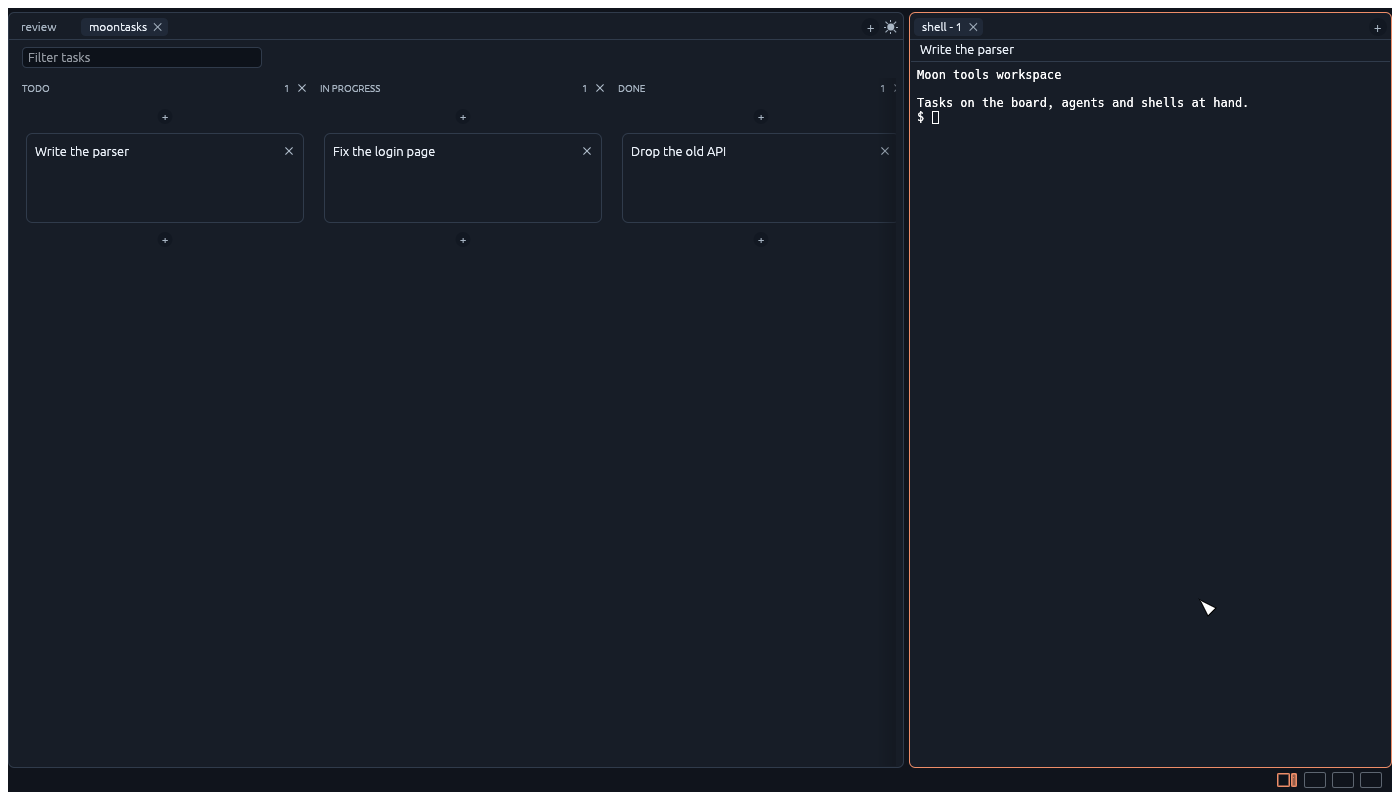
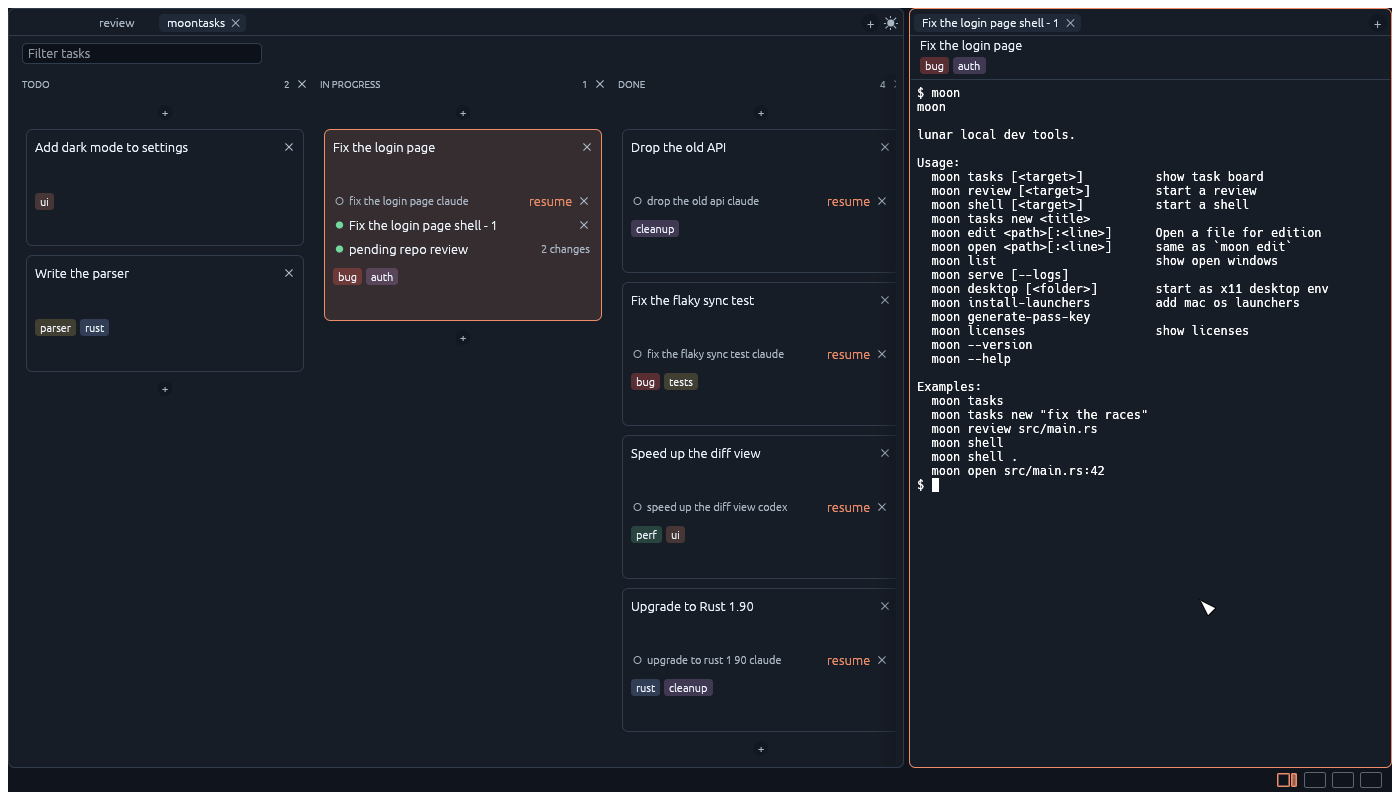
tweak site

diff --git a/docs/site.css b/docs/site.css
@@ -26,6 +26,11 @@ figcaption, footer { font-size: 13px; color: #555; }
 figure { margin: 20px 0 0; }
 #workflow figure { margin-top: 0; }
 figure img { display: block; width: 100%; height: auto; border: 1px solid #999; }
+/* On a desktop the first screenshot runs 10% past the text column on each side; narrower
+   windows have no room to spare, so it stays in the column there. */
+@media (min-width: 1000px) {
+  .intro figure img { width: 120%; max-width: none; margin-left: -10%; }
+}
 figcaption { margin-top: 6px; }
 ul, ol { padding-left: 24px; margin: 12px 0 18px; }
 li { margin-bottom: 8px; }

diff --git a/src/native/ui_tests/board.rs b/src/native/ui_tests/board.rs
@@ -22,23 +22,89 @@ fn the_moontasks_board_draws_what_is_in_the_repo() {
     let fixture = seeded_fixture("board");
     // Written by hand rather than through the service: the ids a real one generates carry a
     // uuid, and the point here is a picture that is the same on every run.
-    for (task_id, title, status) in [
-        ("write-the-parser-1111", "Write the parser", "todo"),
+    // A board as it looks after a few days of use rather than a first minute: tags on most
+    // cards, a DONE column of finished work whose agent runs have all ended, and one card in
+    // progress with an agent run, a shell and a repo waiting on review.
+    for (task_id, title, status, tags, agent_run) in [
+        (
+            "write-the-parser-1111",
+            "Write the parser",
+            "todo",
+            &["parser", "rust"][..],
+            None,
+        ),
+        (
+            "add-dark-mode-to-settings-5555",
+            "Add dark mode to settings",
+            "todo",
+            &["ui"][..],
+            None,
+        ),
         (
             "fix-the-login-page-2222",
             "Fix the login page",
             "in_progress",
+            &["bug", "auth"][..],
+            Some("fix the login page claude"),
         ),
-        ("drop-the-old-api-3333", "Drop the old API", "done"),
+        (
+            "drop-the-old-api-3333",
+            "Drop the old API",
+            "done",
+            &["cleanup"][..],
+            Some("drop the old api claude"),
+        ),
+        (
+            "speed-up-the-diff-view-6666",
+            "Speed up the diff view",
+            "done",
+            &["perf", "ui"][..],
+            Some("speed up the diff view codex"),
+        ),
+        (
+            "fix-flaky-sync-test-7777",
+            "Fix the flaky sync test",
+            "done",
+            &["bug", "tests"][..],
+            Some("fix the flaky sync test claude"),
+        ),
+        (
+            "upgrade-to-rust-1-90-8888",
+            "Upgrade to Rust 1.90",
+            "done",
+            &["rust", "cleanup"][..],
+            Some("upgrade to rust 1 90 claude"),
+        ),
     ] {
+        let tags = tags
+            .iter()
+            .map(|tag| format!("\"{tag}\""))
+            .collect::<Vec<_>>()
+            .join(", ");
+        let resources = match agent_run {
+            Some(name) => format!(
+                "[\n    {{\n      \"id\": \"run-{task_id}\",\n      \"kind\": \"agent\",\n      \
+                 \"agent\": \"{agent}\",\n      \"name\": \"{name}\",\n      \
+                 \"started_at_unix\": 1700000100\n    }}\n  ]",
+                agent = if name.ends_with("codex") { "codex" } else { "claude" },
+            ),
+            None => "[]".to_string(),
+        };
         fixture.write(
             &format!(".moontasks/{task_id}/metadata.json"),
             &format!(
                 "{{\n  \"title\": \"{title}\",\n  \"status\": \"{status}\",\n  \
-                 \"created_at_unix\": 1700000000,\n  \"resources\": []\n}}\n"
+                 \"created_at_unix\": 1700000000,\n  \"tags\": [{tags}],\n  \
+                 \"resources\": {resources}\n}}\n"
             ),
         );
     }
+    // The in-progress task has handed work over: the fixture repo has uncommitted changes, so
+    // this reads as a pending review.
+    fixture.write(
+        ".moontasks/fix-the-login-page-2222/request_for_review.txt",
+        ". // fix(login): keep the session after a redirect\n",
+    );
 
     let mut app = app_for(&fixture.root, ThemeMode::Dark);
     app.set_theme(ThemeMode::Dark);
@@ -94,30 +160,41 @@ fn the_moontasks_board_draws_what_is_in_the_repo() {
             if open_shell_in_ui.load(Ordering::Relaxed)
                 && !shell_requested_in_ui.swap(true, Ordering::Relaxed)
             {
-                app.open_pane(crate::native::panes::OpenPaneRequest::Terminal { command: None });
-            }
-            // The shell is started as a plain one - a task's is started by the server, which
-            // would be a second shell to wait on - and then put on the task it stands for, so
-            // the picture is the one the window really draws: an agent working in a task, and
-            // that task's card marked on the board beside it.
-            if let Some((pane, _)) = app
-                .model
-                .layout
-                .find_pane(|pane| pane.kind() == crate::native::panes::PaneKind::Terminal)
-                .map(|(pane, view)| (pane, view.task_id().is_none()))
-                .filter(|(_, unclaimed)| *unclaimed)
-                && let Some(Pane::Terminal { task_id, .. }) = app.model.layout.pane_mut(pane)
-            {
-                *task_id = Some("write-the-parser-1111".to_string());
-                app.model.layout.focus_pane(pane);
+                // Started the way the card's `[start]` menu starts it, so the server owns the
+                // shell and the card lists it: an agent working in a task, and that task's
+                // card marked on the board beside it.
+                crate::native::board::actions::apply(
+                    &mut app,
+                    crate::native::board::BoardAction::Start(
+                        "fix-the-login-page-2222".to_string(),
+                        crate::moontasks::StartResourceRequest {
+                            kind: crate::moontasks::store::TaskResourceKind::Shell,
+                            agent: crate::api::AgentKind::None,
+                            opens_in: crate::moontasks::StartFolder::Repo,
+                        },
+                    ),
+                );
             }
             app.draw(ui);
             if open_shell_in_ui.load(Ordering::Relaxed)
                 && !shell_command_sent_in_ui.load(Ordering::Relaxed)
                 && let Some(terminal) = app.terminals.values().next()
             {
+                // What bare `moon` prints, from the source rather than an installed binary
+                // that may be older. Passed through a file so the shell's own quoting stays
+                // out of it.
+                let help = std::env::temp_dir().join("moon-docs-screenshot-help.txt");
+                std::fs::write(&help, crate::cli::moon_help_text())
+                    .expect("expected to write the help text for the shell to print");
                 terminal
-                    .send(b"clear; printf '\\033]0;terminal\\007Moon tools workspace\\n\\nTasks on the board, agents and shells at 'hand'.\\n$ '; sleep 30\n")
+                    .send(
+                        format!(
+                            "clear; printf '\\033]0;terminal\\007'; PS1='$ '; \
+                             echo '$ moon'; cat {}; printf '\\n$ '; sleep 30\n",
+                            help.display()
+                        )
+                        .as_bytes(),
+                    )
                     .expect("expected to write the screenshot text to the shell");
                 shell_command_sent_in_ui.store(true, Ordering::Relaxed);
             }
@@ -126,7 +203,7 @@ fn the_moontasks_board_draws_what_is_in_the_repo() {
                 shell_ready_in_ui.store(
                     terminal
                         .visible_text()
-                        .is_ok_and(|screen| screen.contains("agents and shells at hand")),
+                        .is_ok_and(|screen| screen.contains("moon --help")),
                     Ordering::Relaxed,
                 );
             }
@@ -138,7 +215,7 @@ fn the_moontasks_board_draws_what_is_in_the_repo() {
                 .review_ref(&app.model.root_session_id)
                 .is_some_and(|review| review.payload.is_some());
             ready_in_ui.store(
-                app.model.board.loaded && app.model.board.tasks.len() == 3 && review_answered,
+                app.model.board.loaded && app.model.board.tasks.len() == 7 && review_answered,
                 Ordering::Relaxed,
             );
         });
@@ -153,7 +230,7 @@ fn the_moontasks_board_draws_what_is_in_the_repo() {
     }
     assert!(
         ready.load(Ordering::Relaxed),
-        "the board never read the three tasks out of .moontasks"
+        "the board never read the seven tasks out of .moontasks"
     );
 
     harness.run_steps(3);
@@ -473,7 +550,7 @@ fn several_marked_cards_are_handed_to_one_new_task() {
             }
             app.draw(ui);
             ready_in_ui.store(
-                app.model.board.loaded && app.model.board.tasks.len() == 3,
+                app.model.board.loaded && app.model.board.tasks.len() == 7,
                 Ordering::Relaxed,
             );
             let new_task = app
@@ -503,7 +580,7 @@ fn several_marked_cards_are_handed_to_one_new_task() {
     };
 
     step_until(&mut harness, &|| ready.load(Ordering::Relaxed));
-    assert!(ready.load(Ordering::Relaxed), "the board never read the three tasks");
+    assert!(ready.load(Ordering::Relaxed), "the board never read the seven tasks");
     harness.run_steps(3);
     assert!(
         harness.query_by_label("Work on these tasks").is_none(),

diff --git a/src/cli/mod.rs b/src/cli/mod.rs
@@ -15,6 +15,9 @@ mod tests;
 
 #[cfg(not(target_arch = "wasm32"))]
 pub(crate) use command::run;
+/// What bare `moon` prints, which the docs screenshot of a shell shows.
+#[cfg(test)]
+pub(crate) use command::help_text as moon_help_text;
 #[cfg(not(target_arch = "wasm32"))]
 use command::{MoonCommand, help_text_for};
 pub(crate) use frame::FRAMES;

diff --git a/src/cli/command.rs b/src/cli/command.rs
@@ -526,7 +526,7 @@ const USAGE_LINE_OF_FRAME: &[(Frame, &str)] = &[
 ];
 
 /// `moon --help`: every command there is, with what each window opens on.
-fn help_text() -> String {
+pub(crate) fn help_text() -> String {
     let windows: Vec<String> = FRAMES
         .iter()
         .map(|frame| {
